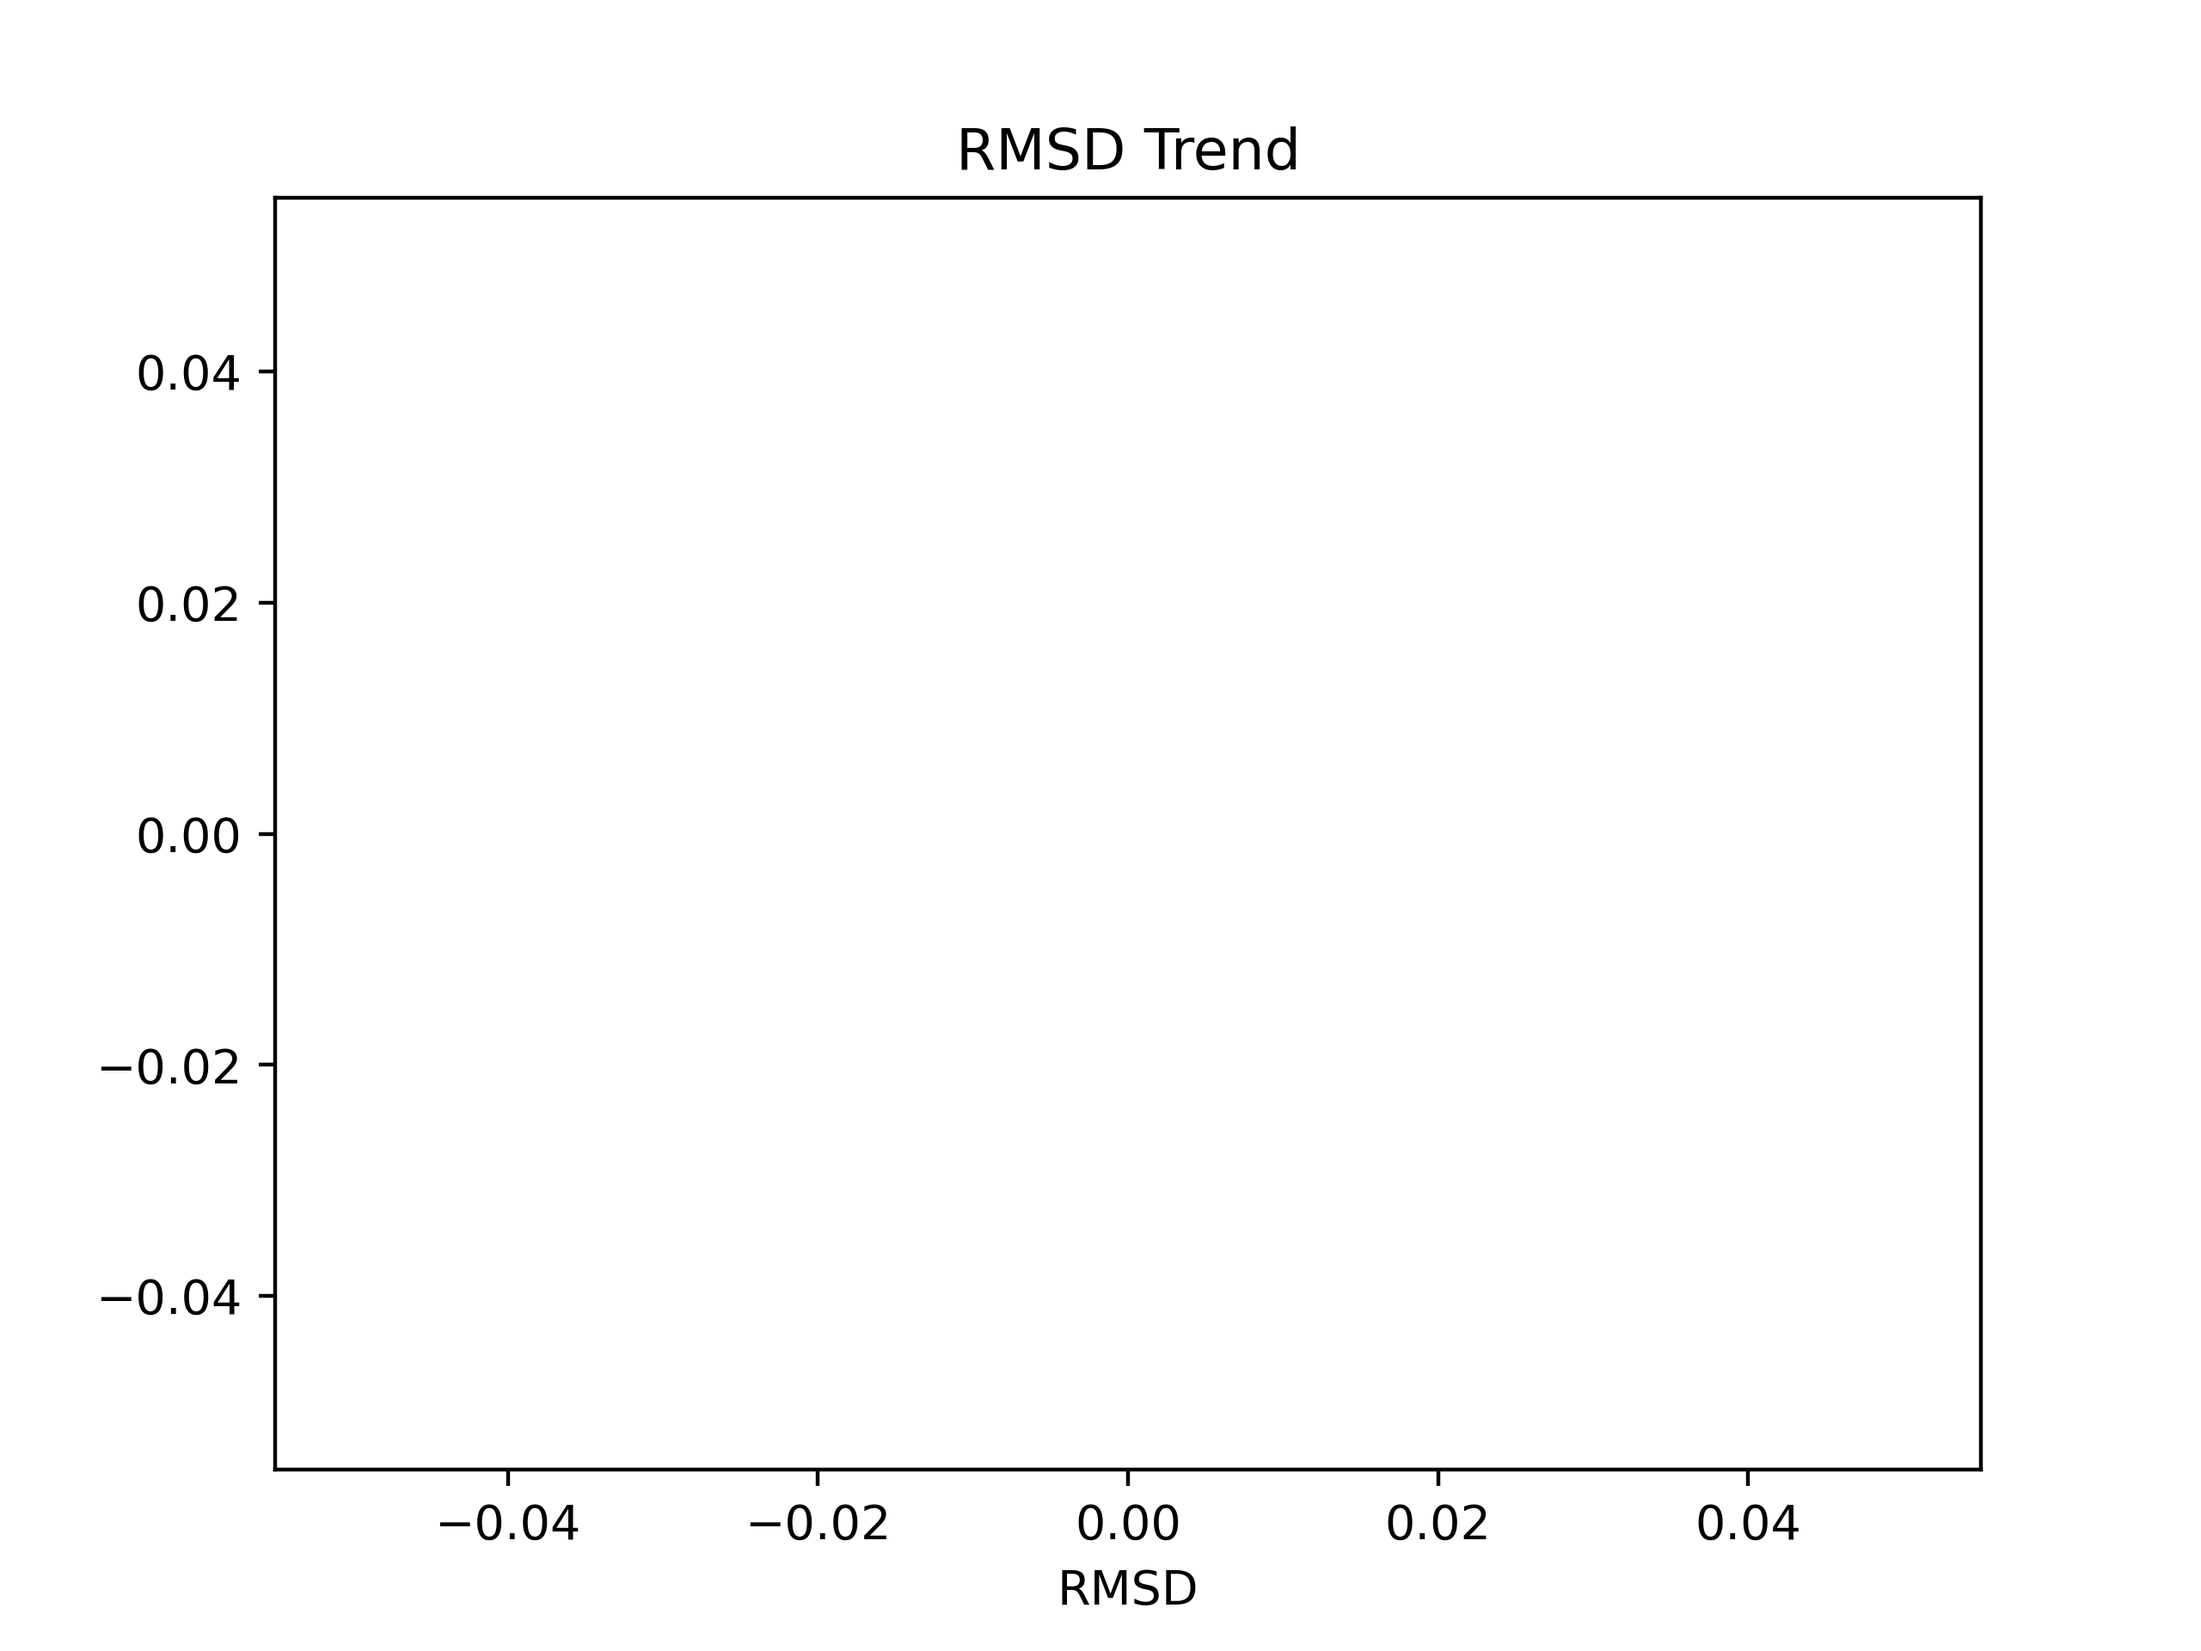
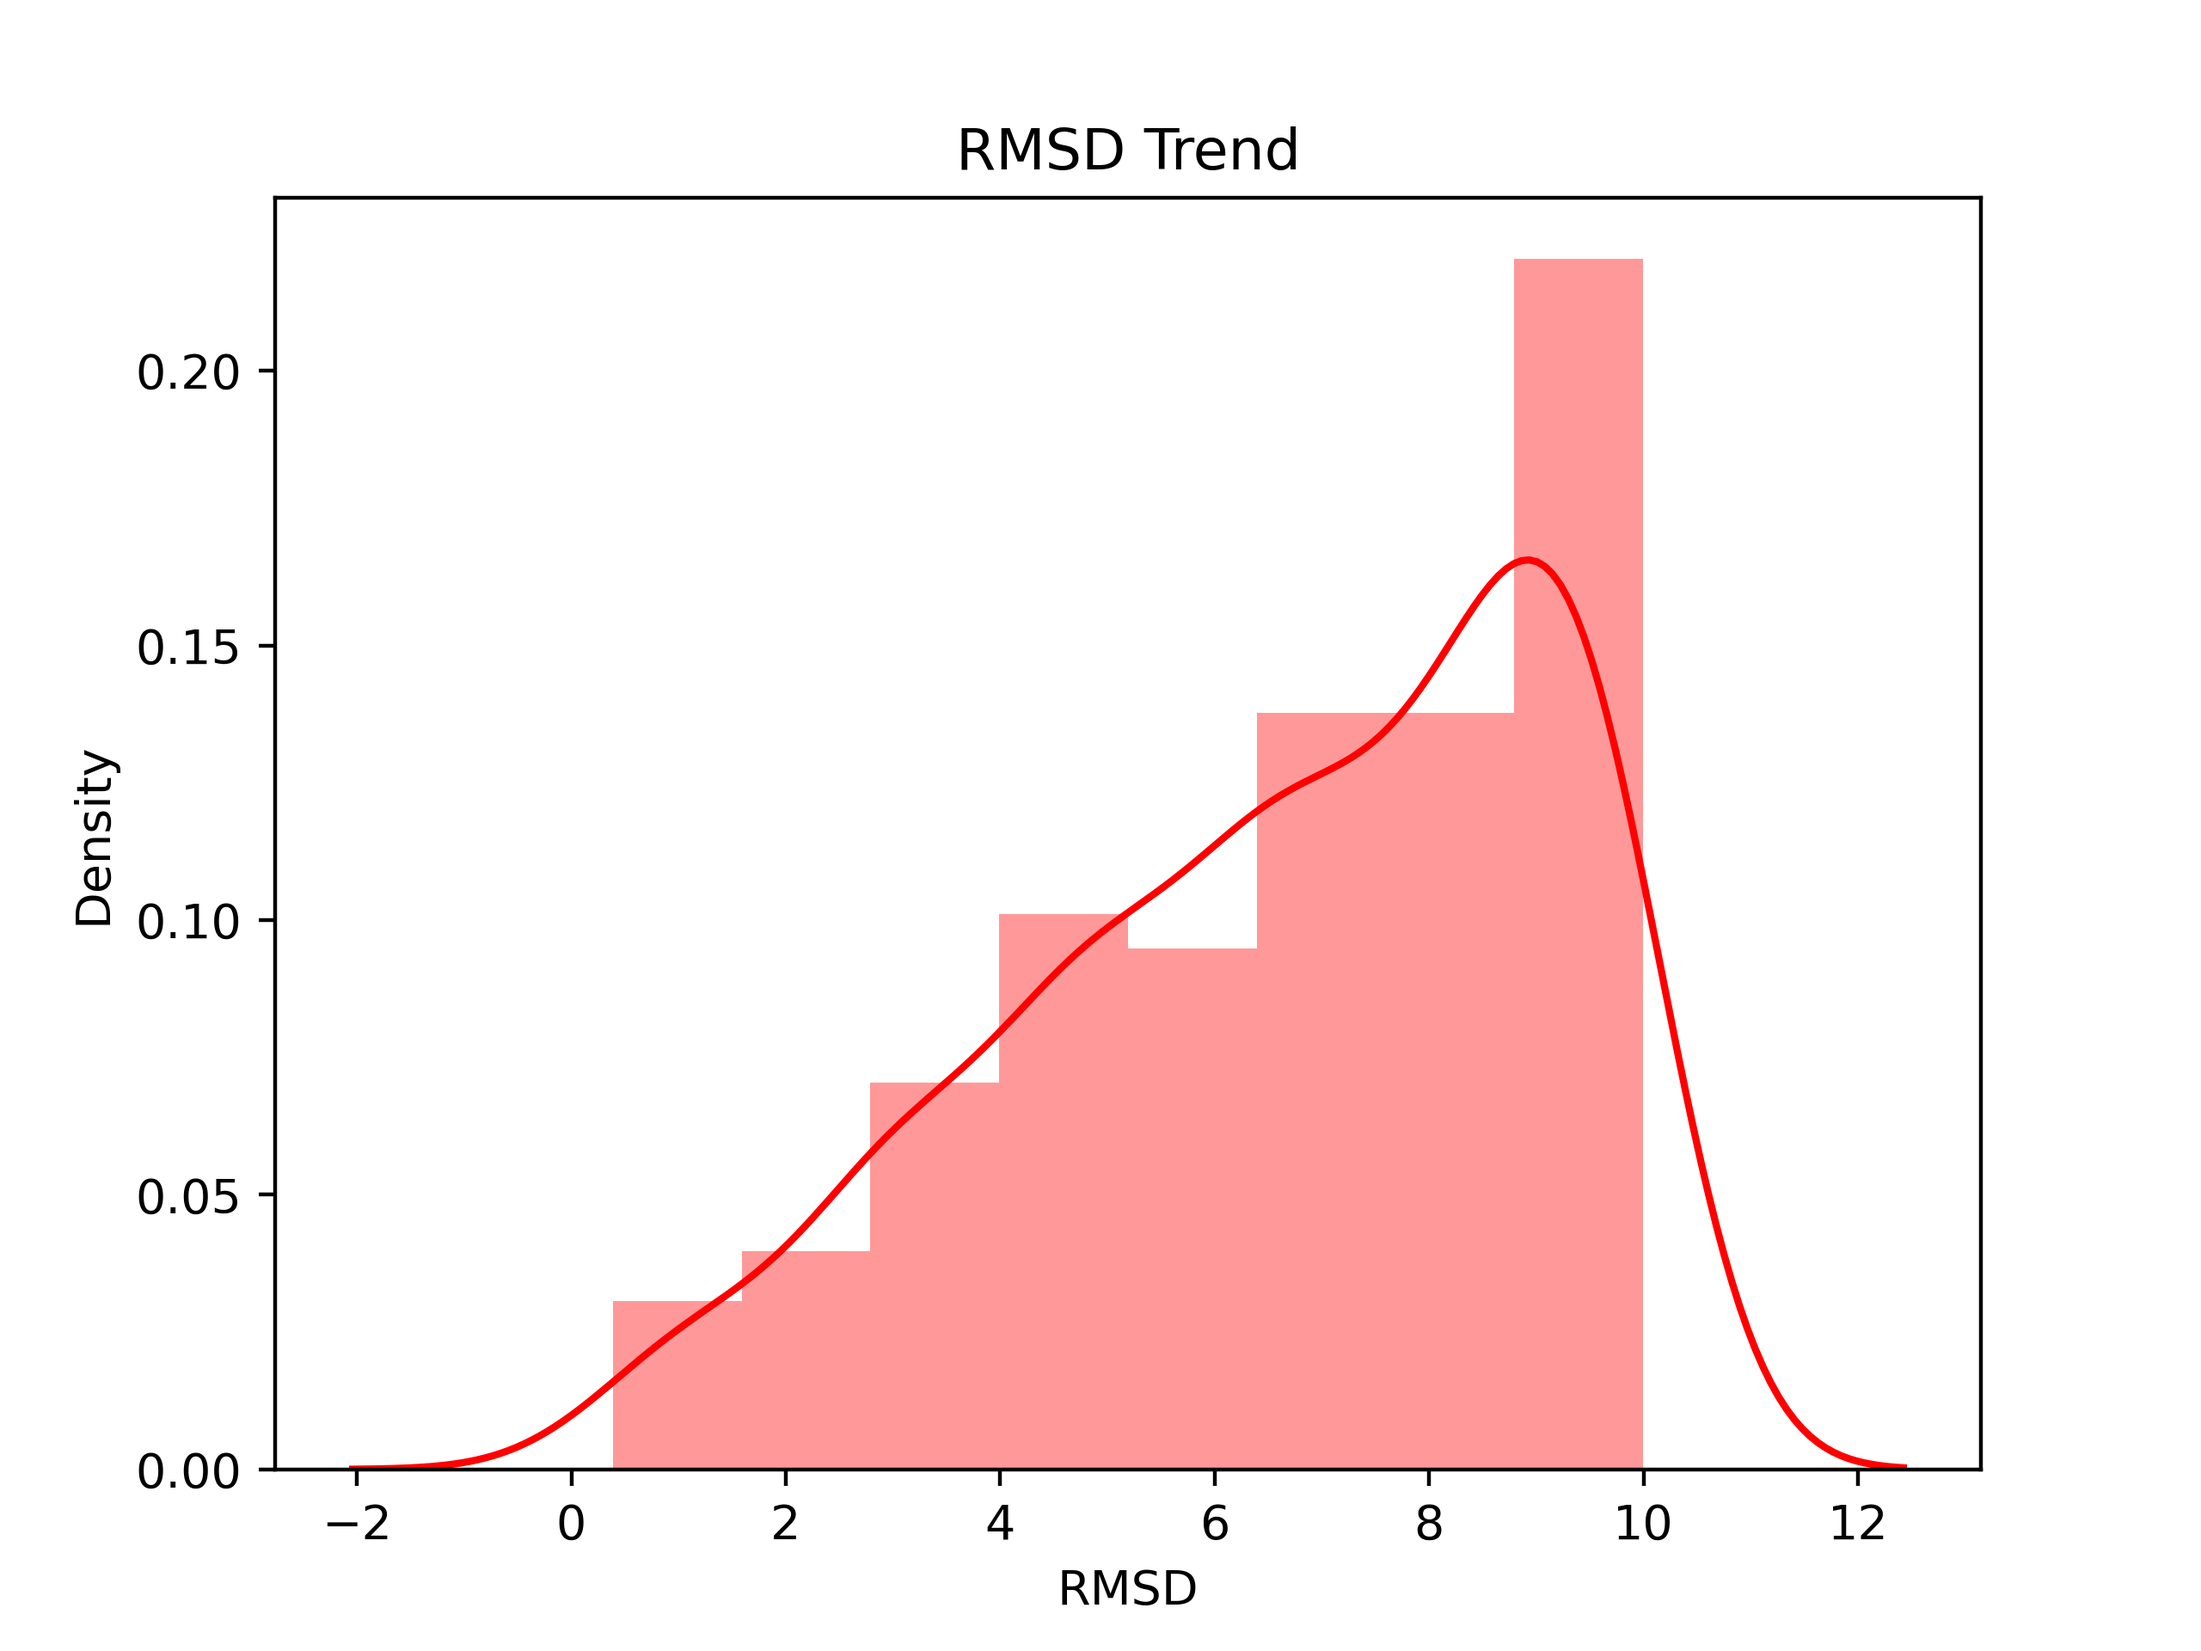
done few dockings

diff --git a/analysis_rmsd.py b/analysis_rmsd.py
@@ -21,7 +21,9 @@ for dock_name in os.listdir(dockings_dir):
     dock_id = dock_name[:4]
     ligandDir = getLigandDir(blastDict[dock_id])
     rmsd = cal.calculateRMSD(ligandDir, dockings_dir+dock_name)
-
+    if rmsd < 10:
+        rmsds.append(rmsd)
+print(len(rmsds), rmsds[0])
 import seaborn as sns
 import matplotlib.pyplot as plt
 from scipy.stats import norm
